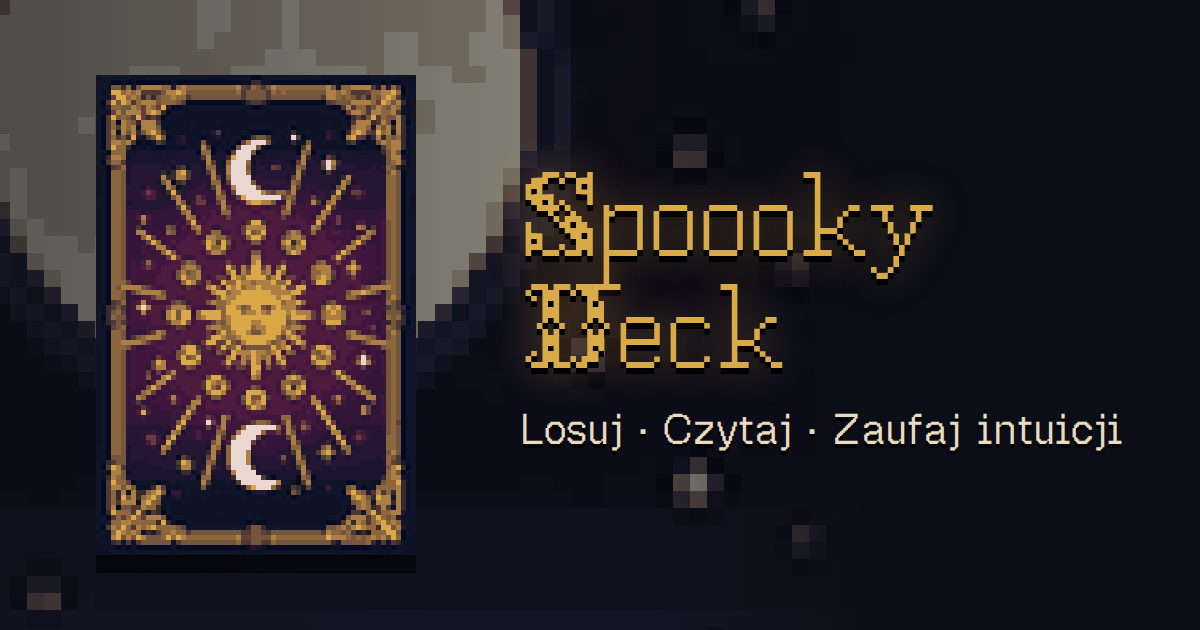
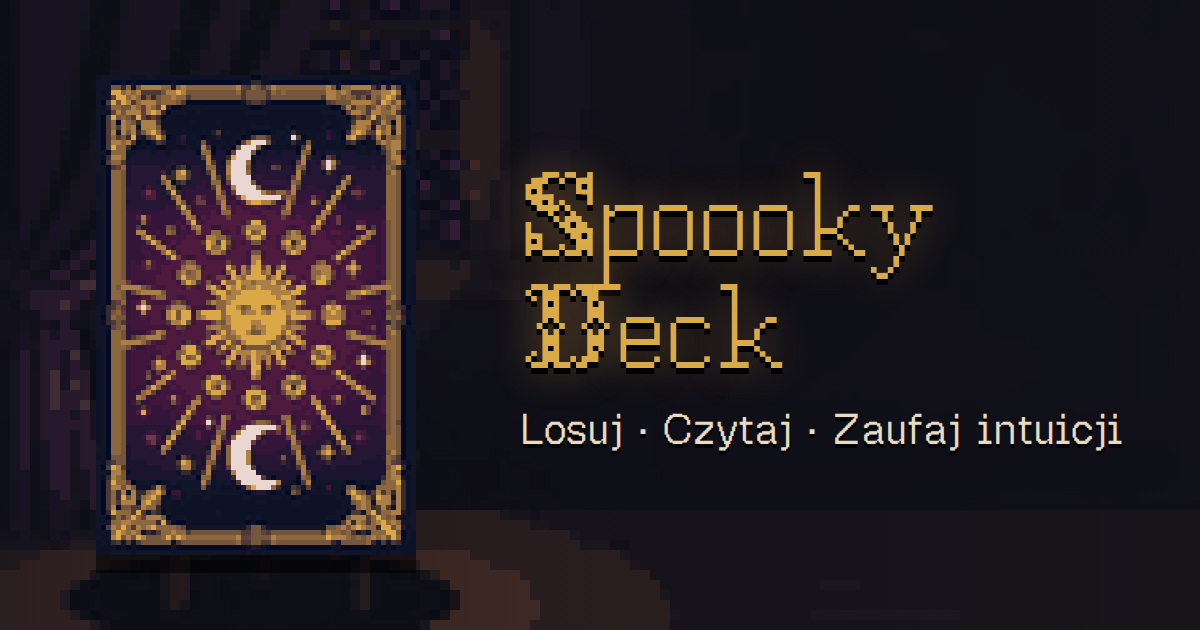
Share graphic: fortune teller's room background (option B)

diff --git a/sw.js b/sw.js
@@ -1,7 +1,7 @@
 // Service worker Spoooky Deck. Plik sw.js jest generowany przez tools/build_sw.py (wersja = skrót zawartości plików).
-const VERSION = '69824d4820';
+const VERSION = 'e96d42c66b';
 const CACHE = 'spooooky-' + VERSION;
-const FILES = ["./", "css/cards.css", "css/fonts.css", "css/style.css", "css/theme.css", "data/cards.json", "data/grammar.en.json", "data/grammar.pl.json", "data/ui.en.json", "data/ui.pl.json", "data/zodiac.en.json", "data/zodiac.pl.json", "fonts/CrossStitch-Regular.ttf", "fonts/OldeTome.ttf", "fonts/geistpixel-latin-ext.woff2", "fonts/geistpixel-latin.woff2", "fonts/jacquard12-latin-ext.woff2", "fonts/jacquard12-latin.woff2", "img/cards/ar00.png", "img/cards/ar01.png", "img/cards/ar02.png", "img/cards/ar03.png", "img/cards/ar04.png", "img/cards/ar05.png", "img/cards/ar06.png", "img/cards/ar07.png", "img/cards/ar08.png", "img/cards/ar09.png", "img/cards/ar10.png", "img/cards/ar11.png", "img/cards/ar12.png", "img/cards/ar13.png", "img/cards/ar14.png", "img/cards/ar15.png", "img/cards/ar16.png", "img/cards/ar17.png", "img/cards/ar18.png", "img/cards/ar19.png", "img/cards/ar20.png", "img/cards/ar21.png", "img/cards/cu01.png", "img/cards/cu02.png", "img/cards/cu03.png", "img/cards/cu04.png", "img/cards/cu05.png", "img/cards/cu06.png", "img/cards/cu07.png", "img/cards/cu08.png", "img/cards/cu09.png", "img/cards/cu10.png", "img/cards/cu11.png", "img/cards/cu12.png", "img/cards/cu13.png", "img/cards/cu14.png", "img/cards/pe01.png", "img/cards/pe02.png", "img/cards/pe03.png", "img/cards/pe04.png", "img/cards/pe05.png", "img/cards/pe06.png", "img/cards/pe07.png", "img/cards/pe08.png", "img/cards/pe09.png", "img/cards/pe10.png", "img/cards/pe11.png", "img/cards/pe12.png", "img/cards/pe13.png", "img/cards/pe14.png", "img/cards/sw01.png", "img/cards/sw02.png", "img/cards/sw03.png", "img/cards/sw04.png", "img/cards/sw05.png", "img/cards/sw06.png", "img/cards/sw07.png", "img/cards/sw08.png", "img/cards/sw09.png", "img/cards/sw10.png", "img/cards/sw11.png", "img/cards/sw12.png", "img/cards/sw13.png", "img/cards/sw14.png", "img/cards/wa01.png", "img/cards/wa02.png", "img/cards/wa03.png", "img/cards/wa04.png", "img/cards/wa05.png", "img/cards/wa06.png", "img/cards/wa07.png", "img/cards/wa08.png", "img/cards/wa09.png", "img/cards/wa10.png", "img/cards/wa11.png", "img/cards/wa12.png", "img/cards/wa13.png", "img/cards/wa14.png", "img/emoji/U+1F30D.png", "img/emoji/U+1F319.png", "img/emoji/U+1F377.png", "img/emoji/U+1F3C6.png", "img/emoji/U+1F4A7.png", "img/emoji/U+1F4A8.png", "img/emoji/U+1F507.png", "img/emoji/U+1F50A.png", "img/emoji/U+1F525.png", "img/emoji/U+1F53A.png", "img/emoji/U+1F53B.png", "img/emoji/U+1FA99.png", "img/emoji/U+2648.png", "img/emoji/U+2649.png", "img/emoji/U+264A.png", "img/emoji/U+264B.png", "img/emoji/U+264C.png", "img/emoji/U+264D.png", "img/emoji/U+264E.png", "img/emoji/U+264F.png", "img/emoji/U+2650.png", "img/emoji/U+2651.png", "img/emoji/U+2652.png", "img/emoji/U+2653.png", "img/emoji/U+2694.png", "img/emoji/U+2728.png", "img/icons/apple-touch-icon.png", "img/icons/favicon-16.png", "img/icons/favicon-32.png", "img/icons/icon-192.png", "img/icons/icon-512.png", "img/icons/icon-maskable-512.png", "img/og.png", "img/ui/back.png", "img/ui/bg-card.png", "img/ui/bg-form.png", "img/ui/bg-intro.png", "img/ui/bg-pick.png", "img/ui/bg-read.png", "img/ui/btn-alt.png", "img/ui/btn-white.png", "img/ui/btn.png", "img/ui/candle.png", "img/ui/cardframe.png", "img/ui/cursor.png", "img/ui/emblem.png", "img/ui/frame.png", "img/ui/ic-candle.png", "img/ui/ic-stars.png", "img/ui/ic-tower.png", "img/ui/picture-frame.png", "img/ui/shine.png", "index.html", "js/app.js", "js/audio.js", "js/deck.js", "js/fx.js", "js/oracle.js", "js/share.js", "js/vendor/seedrandom.min.js", "js/vendor/tracery.js", "js/vendor/zzfx.js", "manifest.webmanifest"];
+const FILES = ["./", "css/cards.css", "css/fonts.css", "css/style.css", "css/theme.css", "data/cards.json", "data/grammar.en.json", "data/grammar.pl.json", "data/ui.en.json", "data/ui.pl.json", "data/zodiac.en.json", "data/zodiac.pl.json", "fonts/CrossStitch-Regular.ttf", "fonts/OldeTome.ttf", "fonts/geistpixel-latin-ext.woff2", "fonts/geistpixel-latin.woff2", "fonts/jacquard12-latin-ext.woff2", "fonts/jacquard12-latin.woff2", "img/cards/ar00.png", "img/cards/ar01.png", "img/cards/ar02.png", "img/cards/ar03.png", "img/cards/ar04.png", "img/cards/ar05.png", "img/cards/ar06.png", "img/cards/ar07.png", "img/cards/ar08.png", "img/cards/ar09.png", "img/cards/ar10.png", "img/cards/ar11.png", "img/cards/ar12.png", "img/cards/ar13.png", "img/cards/ar14.png", "img/cards/ar15.png", "img/cards/ar16.png", "img/cards/ar17.png", "img/cards/ar18.png", "img/cards/ar19.png", "img/cards/ar20.png", "img/cards/ar21.png", "img/cards/cu01.png", "img/cards/cu02.png", "img/cards/cu03.png", "img/cards/cu04.png", "img/cards/cu05.png", "img/cards/cu06.png", "img/cards/cu07.png", "img/cards/cu08.png", "img/cards/cu09.png", "img/cards/cu10.png", "img/cards/cu11.png", "img/cards/cu12.png", "img/cards/cu13.png", "img/cards/cu14.png", "img/cards/pe01.png", "img/cards/pe02.png", "img/cards/pe03.png", "img/cards/pe04.png", "img/cards/pe05.png", "img/cards/pe06.png", "img/cards/pe07.png", "img/cards/pe08.png", "img/cards/pe09.png", "img/cards/pe10.png", "img/cards/pe11.png", "img/cards/pe12.png", "img/cards/pe13.png", "img/cards/pe14.png", "img/cards/sw01.png", "img/cards/sw02.png", "img/cards/sw03.png", "img/cards/sw04.png", "img/cards/sw05.png", "img/cards/sw06.png", "img/cards/sw07.png", "img/cards/sw08.png", "img/cards/sw09.png", "img/cards/sw10.png", "img/cards/sw11.png", "img/cards/sw12.png", "img/cards/sw13.png", "img/cards/sw14.png", "img/cards/wa01.png", "img/cards/wa02.png", "img/cards/wa03.png", "img/cards/wa04.png", "img/cards/wa05.png", "img/cards/wa06.png", "img/cards/wa07.png", "img/cards/wa08.png", "img/cards/wa09.png", "img/cards/wa10.png", "img/cards/wa11.png", "img/cards/wa12.png", "img/cards/wa13.png", "img/cards/wa14.png", "img/emoji/U+1F30D.png", "img/emoji/U+1F319.png", "img/emoji/U+1F377.png", "img/emoji/U+1F3C6.png", "img/emoji/U+1F4A7.png", "img/emoji/U+1F4A8.png", "img/emoji/U+1F507.png", "img/emoji/U+1F50A.png", "img/emoji/U+1F525.png", "img/emoji/U+1F53A.png", "img/emoji/U+1F53B.png", "img/emoji/U+1FA99.png", "img/emoji/U+2648.png", "img/emoji/U+2649.png", "img/emoji/U+264A.png", "img/emoji/U+264B.png", "img/emoji/U+264C.png", "img/emoji/U+264D.png", "img/emoji/U+264E.png", "img/emoji/U+264F.png", "img/emoji/U+2650.png", "img/emoji/U+2651.png", "img/emoji/U+2652.png", "img/emoji/U+2653.png", "img/emoji/U+2694.png", "img/emoji/U+2728.png", "img/icons/apple-touch-icon.png", "img/icons/favicon-16.png", "img/icons/favicon-32.png", "img/icons/icon-192.png", "img/icons/icon-512.png", "img/icons/icon-maskable-512.png", "img/og-bg.png", "img/og.png", "img/ui/back.png", "img/ui/bg-card.png", "img/ui/bg-form.png", "img/ui/bg-intro.png", "img/ui/bg-pick.png", "img/ui/bg-read.png", "img/ui/btn-alt.png", "img/ui/btn-white.png", "img/ui/btn.png", "img/ui/candle.png", "img/ui/cardframe.png", "img/ui/cursor.png", "img/ui/emblem.png", "img/ui/frame.png", "img/ui/ic-candle.png", "img/ui/ic-stars.png", "img/ui/ic-tower.png", "img/ui/picture-frame.png", "img/ui/shine.png", "index.html", "js/app.js", "js/audio.js", "js/deck.js", "js/fx.js", "js/oracle.js", "js/share.js", "js/vendor/seedrandom.min.js", "js/vendor/tracery.js", "js/vendor/zzfx.js", "manifest.webmanifest"];
 
 self.addEventListener('install', e => {
   e.waitUntil(caches.open(CACHE).then(c => c.addAll(FILES.map(f => new Request(f, { cache: 'reload' })))).then(() => self.skipWaiting()));   // nowa wersja przejmuje stronę od razu

diff --git a/index.html b/index.html
@@ -15,13 +15,13 @@
 <meta property="og:title" content="Spoooky Deck">
 <meta property="og:description" content="Losuj · Czytaj · Zaufaj intuicji. Wyrocznia tarota dla firm.">
 <meta property="og:url" content="https://whosz.pl/tarot/">
-<meta property="og:image" content="https://whosz.pl/tarot/img/og.png?v=3">
+<meta property="og:image" content="https://whosz.pl/tarot/img/og.png?v=4">
 <meta property="og:image:width" content="1200">
 <meta property="og:image:height" content="630">
 <meta name="twitter:card" content="summary_large_image">
 <meta name="twitter:title" content="Spoooky Deck">
 <meta name="twitter:description" content="Losuj · Czytaj · Zaufaj intuicji. Wyrocznia tarota dla firm.">
-<meta name="twitter:image" content="https://whosz.pl/tarot/img/og.png?v=3">
+<meta name="twitter:image" content="https://whosz.pl/tarot/img/og.png?v=4">
 <link rel="apple-touch-icon" href="img/icons/apple-touch-icon.png">
 <meta name="apple-mobile-web-app-capable" content="yes">
 <meta name="mobile-web-app-capable" content="yes">
@@ -30,10 +30,10 @@
 <link rel="preload" href="fonts/jacquard12-latin-ext.woff2" as="font" type="font/woff2" crossorigin>
 <link rel="preload" href="fonts/geistpixel-latin.woff2" as="font" type="font/woff2" crossorigin>
 <link rel="preload" href="fonts/geistpixel-latin-ext.woff2" as="font" type="font/woff2" crossorigin>
-<link rel="stylesheet" href="css/fonts.css?v=142">
-<link rel="stylesheet" href="css/style.css?v=142">
-<link rel="stylesheet" href="css/cards.css?v=142">
-<link rel="stylesheet" href="css/theme.css?v=142">
+<link rel="stylesheet" href="css/fonts.css?v=143">
+<link rel="stylesheet" href="css/style.css?v=143">
+<link rel="stylesheet" href="css/cards.css?v=143">
+<link rel="stylesheet" href="css/theme.css?v=143">
 </head>
 <body>
 <div id="phone">
@@ -125,6 +125,6 @@
 <script src="js/vendor/seedrandom.min.js"></script>
 <script src="js/vendor/tracery.js"></script>
 <script src="js/vendor/zzfx.js"></script>
-<script type="module" src="js/app.js?v=142"></script>
+<script type="module" src="js/app.js?v=143"></script>
 </body>
 </html>
